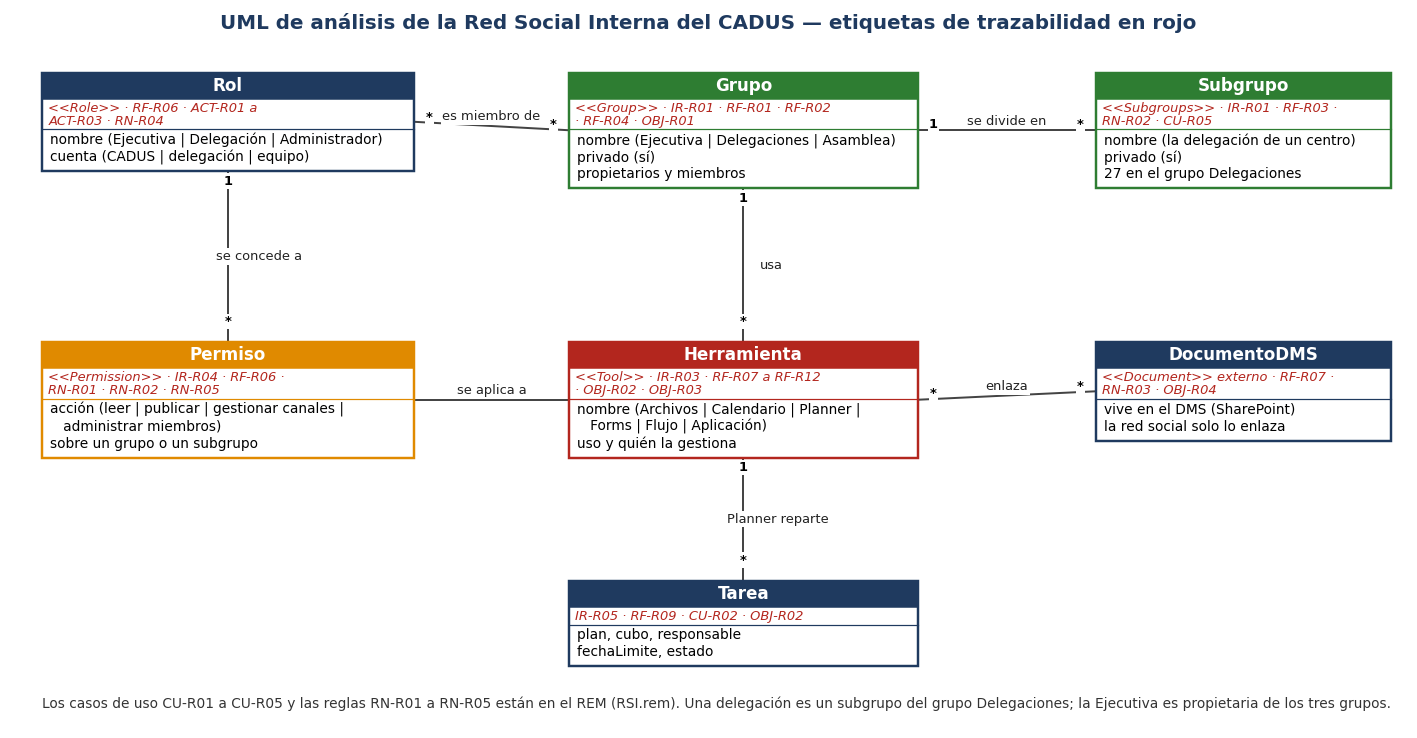
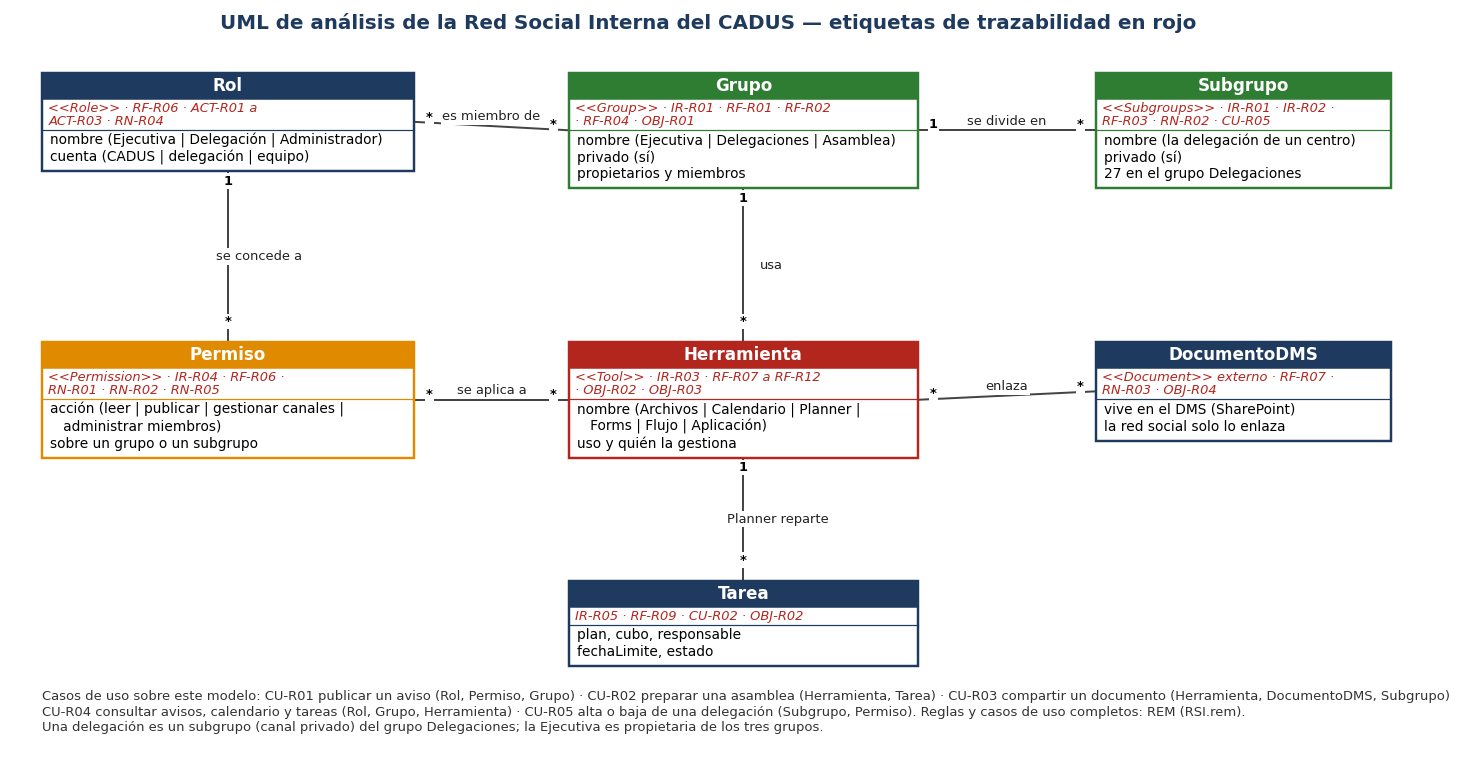
docs(redsocial): revision de los UML de analisis y diseno (R-03, R-04)

Changed region(s): [[0.0, 0.0935, 0.9936, 0.9661], [0.1553, 0.0, 0.8384, 0.0623], [0.1553, 0.3117, 0.2174, 0.374]]

diff --git a/scripts/redsocial/diagramas_rsi.py b/scripts/redsocial/diagramas_rsi.py
@@ -16,13 +16,13 @@ AZUL, VERDE, NARANJA, ROJO = D.AZUL, D.VERDE, D.NARANJA, D.ROJO
 
 
 def analisis():
-    fig, ax = lienzo(1800, 930)
+    fig, ax = lienzo(1800, 965)
     ax.text(900, 24, "UML de análisis de la Red Social Interna del CADUS — etiquetas de trazabilidad en rojo", ha="center", fontsize=13, fontweight="bold", color=AZUL)
     rol = clase(ax, 40, 80, 480, "Rol", "<<Role>> · RF-R06 · ACT-R01 a ACT-R03 · RN-R04",
                 ["nombre (Ejecutiva | Delegación | Administrador)", "cuenta (CADUS | delegación | equipo)"])
     grupo = clase(ax, 720, 80, 450, "Grupo", "<<Group>> · IR-R01 · RF-R01 · RF-R02 · RF-R04 · OBJ-R01",
                   ["nombre (Ejecutiva | Delegaciones | Asamblea)", "privado (sí)", "propietarios y miembros"], VERDE)
-    sub = clase(ax, 1400, 80, 380, "Subgrupo", "<<Subgroups>> · IR-R01 · RF-R03 · RN-R02 · CU-R05",
+    sub = clase(ax, 1400, 80, 380, "Subgrupo", "<<Subgroups>> · IR-R01 · IR-R02 · RF-R03 · RN-R02 · CU-R05",
                 ["nombre (la delegación de un centro)", "privado (sí)", "27 en el grupo Delegaciones"], VERDE)
     perm = clase(ax, 40, 430, 480, "Permiso", "<<Permission>> · IR-R04 · RF-R06 · RN-R01 · RN-R02 · RN-R05",
                  ["acción (leer | publicar | gestionar canales |", "   administrar miembros)", "sobre un grupo o un subgrupo"], NARANJA)
@@ -35,25 +35,28 @@ def analisis():
     rel(ax, rol, "der", grupo, "izq", "es miembro de", "*", "*", dy=-12)
     rel(ax, grupo, "der", sub, "izq", "se divide en", "1", "*", dy=-12)
     rel(ax, perm, "arr", rol, "abj", "se concede a", "*", "1", dx=40, dy=0)
-    rel(ax, perm, "der", herr, "izq", "se aplica a", "", "", dy=-12)
+    rel(ax, perm, "der", herr, "izq", "se aplica a", "*", "*", dy=-12)
     rel(ax, grupo, "abj", herr, "arr", "usa", "1", "*", dx=36, dy=0)
     rel(ax, herr, "der", doc, "izq", "enlaza", "*", "*", dy=-12)
     rel(ax, herr, "abj", tarea, "arr", "Planner reparte", "1", "*", dx=44, dy=0)
-    ax.text(40, 905, "Los casos de uso CU-R01 a CU-R05 y las reglas RN-R01 a RN-R05 están en el REM (RSI.rem). Una delegación es un subgrupo del grupo Delegaciones; la Ejecutiva es propietaria de los tres grupos.",
-            fontsize=9, color="#333")
+    pie = ["Casos de uso sobre este modelo: CU-R01 publicar un aviso (Rol, Permiso, Grupo) · CU-R02 preparar una asamblea (Herramienta, Tarea) · CU-R03 compartir un documento (Herramienta, DocumentoDMS, Subgrupo)",
+           "CU-R04 consultar avisos, calendario y tareas (Rol, Grupo, Herramienta) · CU-R05 alta o baja de una delegación (Subgrupo, Permiso). Reglas y casos de uso completos: REM (RSI.rem).",
+           "Una delegación es un subgrupo (canal privado) del grupo Delegaciones; la Ejecutiva es propietaria de los tres grupos."]
+    for k, t in enumerate(pie):
+        ax.text(40, 895 + 20 * k, t, fontsize=8.6, color="#333")
     guardar(fig, "uml-rsi-analisis.png")
 
 
 def diseno():
-    fig, ax = lienzo(1700, 1180)
+    fig, ax = lienzo(1700, 1320)
     ax.text(850, 24, "UML de diseño de la Red Social Interna en Microsoft Teams — del análisis al diseño", ha="center", fontsize=13, fontweight="bold", color=AZUL)
     caja(ax, 40, 60, 1620, 60, "<<Tenant>> Microsoft 365 de la Universidad de Sevilla (uses0)", "Teams, SharePoint, Planner, Forms, Power Automate y PowerApps · RC-R01 · RC-R02", fc=AZUL, ec=AZUL, subcolor="#ffd2cf", titcolor="white")
     eje = clase(ax, 40, 190, 520, "<<Team>> CADUS · Ejecutiva", "privado · RF-R01 · RF-R02 · OBJ-R01",
                 ["canal General: coordinación de la Ejecutiva", "canal «Preparación de avisos»", "Propietarios: la Ejecutiva (cuenta del CADUS)", "Miembros: nadie más"])
     dele = clase(ax, 590, 190, 540, "<<Team>> CADUS · Delegaciones", "privado · RF-R01 · RF-R03 · RF-R05 · RN-R01 · RN-R02",
-                 ["canal General = AVISOS: solo publican los propietarios", "27 canales privados «Delegación · <centro>»", "   (subgrupos: Ejecutiva + la cuenta de esa delegación)", "Propietarios: la Ejecutiva", "Miembros: las 27 cuentas de delegación"], VERDE)
+                 ["General → «Avisos»: solo publican los propietarios", "27 canales privados «Delegación · <centro>»", "   (piloto: ETSII, Derecho y Biología)", "Propietarios: la Ejecutiva", "Miembros: las 27 cuentas de delegación"], VERDE)
     asa = clase(ax, 1160, 190, 500, "<<Team>> CADUS · Asamblea", "privado · RF-R01 · RF-R04 · RF-R08 · RF-R09",
-                ["canal General: convocatorias y seguimiento", "canal «Cursos»", "Propietarios: la Ejecutiva", "Miembros: las 27 cuentas de delegación"])
+                ["canal General: convocatorias y seguimiento", "   pestañas Calendario y SharePoint (DMS)", "canal «Cursos»", "Propietarios: la Ejecutiva", "Miembros: las 27 cuentas de delegación"])
     ax.text(40, 440, "Roles y permisos de Teams (IR-R04 · RF-R06 · RN-R04 · RN-R05)", fontsize=11.5, fontweight="bold", color=AZUL)
     caja(ax, 40, 465, 520, 66, "<<Role>> Propietario (Owner)", "Ejecutiva y administrador: gestionan miembros y canales", fc="white", ec=AZUL, subcolor="#333")
     caja(ax, 590, 465, 540, 66, "<<Role>> Miembro (Member)", "una cuenta por delegación: lee y participa en su canal", fc="white", ec=VERDE, subcolor="#333")
@@ -61,24 +64,30 @@ def diseno():
     caja(ax, 40, 575, 780, 70, "<<Permission>> Quién publica", "avisos: solo propietarios · canales de delegación: la delegación y la Ejecutiva · RN-R01", fc="#fff7ea", ec=NARANJA, subcolor="#333")
     caja(ax, 880, 575, 780, 70, "<<Permission>> Quién ve el canal", "canal privado: solo sus miembros; el resto del equipo no lo ve ni lo busca · RN-R02", fc="#fff7ea", ec=NARANJA, subcolor="#333")
     ax.text(40, 695, "Herramientas ancladas como pestañas de cada canal (IR-R03 · RF-R07 a RF-R12 · UI-R02)", fontsize=11.5, fontweight="bold", color=AZUL)
-    herr = [("<<Tool>> Archivos", "enlaza un sitio del DMS · RN-R03", 40),
+    herr = [("<<Tool>> SharePoint", "pestaña que abre el DMS · RN-R03", 40),
             ("<<Tool>> Calendario", "asambleas y cursos · RF-R08", 340),
             ("<<Tool>> Planner", "tareas por equipo · RF-R09", 640),
             ("<<Tool>> Forms", "asistencia y encuestas · RF-R10", 940),
             ("<<Tool>> Flujo y aplicación", "Power Automate y PowerApps (Lab 8) · RF-R11 · RF-R12", 1240)]
     for t, s, x in herr:
         caja(ax, x, 720, 280 if x < 1240 else 420, 66, t, s, fc="#eef7ee", ec=VERDE, subcolor="#333")
-    ax.text(40, 835, "Del análisis al diseño", fontsize=11.5, fontweight="bold", color=AZUL)
+    ax.text(40, 820, "Planes de Planner (IR-R05 · RF-R09 · CU-R02) — pestaña Planner de cada equipo", fontsize=11.5, fontweight="bold", color=AZUL)
+    caja(ax, 40, 845, 780, 86, "<<Plan>> «Preparación de la asamblea» (CADUS · Asamblea)", "cubos: Por hacer · En curso · Hecho", fc="#eef2fb", ec=AZUL, subcolor="#333")
+    caja(ax, 880, 845, 780, 86, "<<Task>> Tarea del plan", "responsable · fecha límite · estado · la Ejecutiva reparte", fc="#eef2fb", ec=AZUL, subcolor="#333")
+    ax.text(40, 952, "Los planes de Ejecutiva y Delegaciones siguen el mismo patrón; sus nombres y tareas los fija Joaquín (R-06) y no están configurados todavía.", fontsize=9.5, color="#333")
+    ax.text(40, 965, "", fontsize=1)
+    ax.text(40, 1005, "Del análisis al diseño", fontsize=11.5, fontweight="bold", color=AZUL)
     filas = [("<<Group>> Grupo", "→", "<<Team>> equipo privado de Teams (tres: Ejecutiva, Delegaciones y Asamblea)"),
-             ("<<Subgroups>> Subgrupo", "→", "canal privado del equipo Delegaciones, uno por centro (27)"),
+             ("<<Subgroups>> Subgrupo", "→", "canal privado del equipo Delegaciones, uno por centro (27; el piloto crea tres)"),
              ("<<Role>> Rol", "→", "rol de Teams: propietario, miembro o invitado (cuentas de grupo, no personales)"),
              ("<<Permission>> Permiso", "→", "ajuste del canal: quién publica y quién ve; permisos de miembros y propietarios"),
-             ("<<Tool>> Herramienta", "→", "pestaña o aplicación del canal (Archivos, Calendario, Planner, Forms, Power Automate, PowerApps)"),
+             ("<<Tool>> Herramienta", "→", "pestaña o aplicación del canal (SharePoint, Calendario, Planner, Forms, Power Automate, PowerApps)"),
+             ("Tarea", "→", "tarea de Planner dentro de un cubo del plan del equipo"),
              ("DocumentoDMS", "→", "no se copia: es un enlace al sitio de SharePoint del DMS")]
     for i, (a, f, b) in enumerate(filas):
-        ax.text(60, 868 + 30 * i, f"{a}   {f}   {b}", fontsize=10)
-    ax.text(40, 1060, "Por qué tres equipos y no uno: Teams limita el número de canales privados por equipo (a comprobar en el tenant) y 27 delegaciones más la Ejecutiva casi lo agotarían.", fontsize=9.5, color="#333")
-    ax.text(40, 1085, "Cada delegación usa una sola cuenta a nombre de la delegación (RN-R04), como en el portal y en el DMS.", fontsize=9.5, color="#333")
+        ax.text(60, 1038 + 30 * i, f"{a}   {f}   {b}", fontsize=10)
+    ax.text(40, 1262, "Por qué tres equipos y no uno: Teams limita el número de canales privados por equipo (a comprobar en el tenant) y 27 delegaciones más la Ejecutiva casi lo agotarían.", fontsize=9.5, color="#333")
+    ax.text(40, 1287, "Cada delegación usa una sola cuenta a nombre de la delegación (RN-R04), como en el portal y en el DMS.", fontsize=9.5, color="#333")
     guardar(fig, "uml-rsi-diseno.png")
 
 
